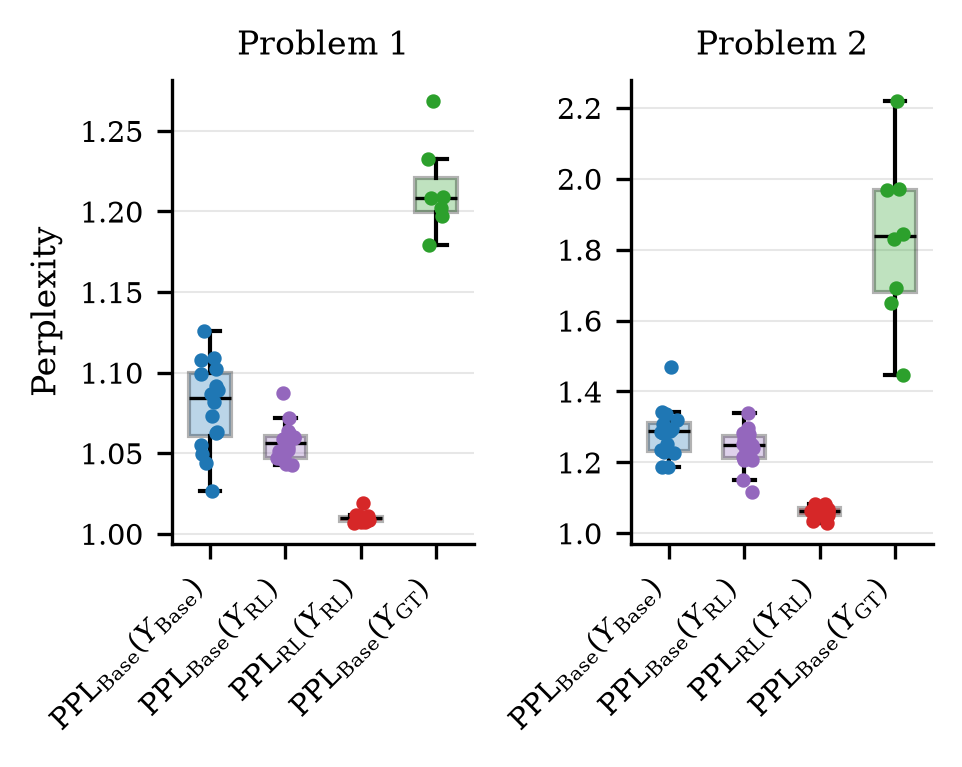
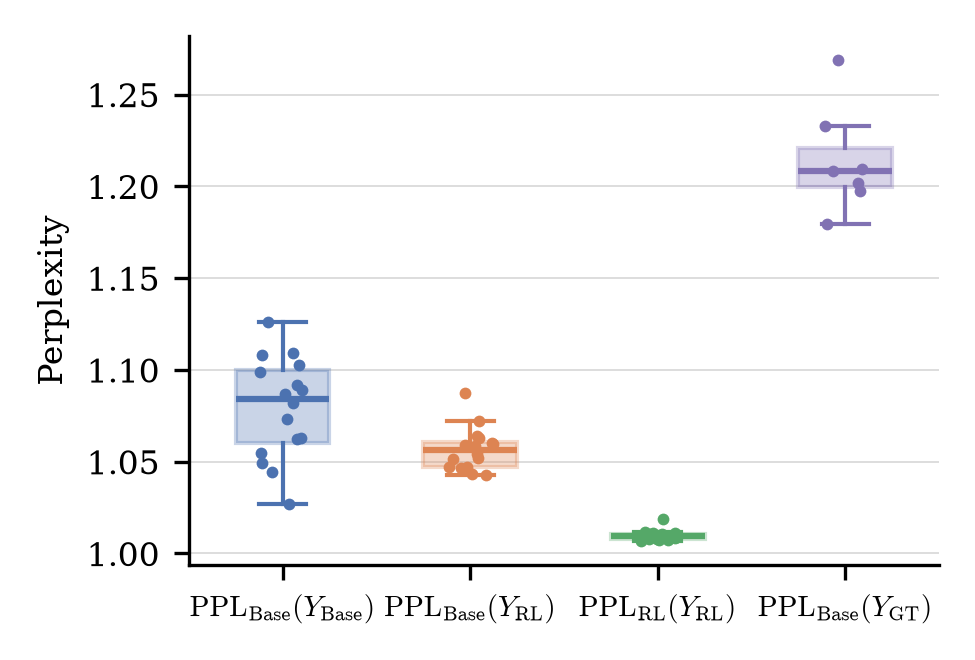
academic-figure: per-purpose plot-type files; README examples at printed size, collapsible
- SKILL.md keeps the shared rules; §4 routes to trend.md, comparison.md, distribution.md,
  scatter.md, heatmap.md by what the figure shows, so new plot types are one file and one row
- RLVR Fig. 6 example: Problem 1 only, one panel filling the column; both versions redrawn
  by clean-context subagents (the with-skill one opened distribution.md on its own)
- README: each example collapsible, labelled with its type, both versions stacked at printed size

diff --git a/skills/academic-figure/SKILL.md b/skills/academic-figure/SKILL.md
@@ -11,7 +11,7 @@ Steps, in order:
 
 1. **Takeaway**: work out what the paper uses this figure to show (from the user's request, the paper text or caption, the figure's role), then write it as one sentence with a number from the data. It sets the value labels (§3) and becomes the caption's takeaway (§7).
 2. **Size**: width, grid and aspect (§1).
-3. **Draw**: base style (§2), lines and text (§3), plot type (§4), color (§5), legend (§6).
+3. **Draw**: base style (§2), what is plotted (§3), the plot type's file (§4), color (§5), legend (§6).
 4. **Save, caption, notebook** (§7, §8), then **check** (§9).
 
 ## 1. Size
@@ -106,55 +106,32 @@ It needs `tol-colors` (Python 3.10+). If it is missing, tell the user and ask be
 - Keep matplotlib's default axis limits and margins; `fit_height` makes room for value labels (§1, Height).
 - Numeric tick labels are horizontal plain numbers (`1, 2, 4, 8`, never rotated, never `2³`). When `fit_height` reports overlapping numeric tick labels, use fewer ticks in that panel (every other one), not smaller text or rotation.
 - Text tick labels (categories, bins, method names) that don't fit side by side turn 45°: `ax.set_xticks(x, labels=names, rotation=45, ha="right", rotation_mode="anchor")`. Keep the panels side by side and the bins on the x-axis rather than switching to horizontal bars or stacked panels to avoid the rotation.
-- Log₂ axes (number of samples, batch size, model size): `ax.set_xscale("log", base=2)`, a tick at every power of 2 up to the first one at or above the largest x (`top`) with `ax.set_xticks(ks, labels=[str(k) for k in ks])`, and no minor ticks (`ax.set_xticks([], minor=True)`). The axis ends at `top` with the usual 5% margin, so every panel ends on a labelled tick: `margin = 2 ** (0.05 * math.log2(top))`, `ax.set_xlim(1 / margin, top * margin)`. Where those labels overlap, step by 4 (`1, 4, 16, 64`).
 - Category axes (bar charts, text tick labels): hide the tick marks on that axis with `ax.tick_params(axis="x", length=0)` (`axis="y"` for horizontal bars), on every panel.
 
-## 3. Lines and text
+## 3. What is plotted
 
 Every plotted quantity is one of two kinds; decide which before drawing:
 
-- **Reported results**: the numbers the paper claims, measured once per setting (accuracy, F1, latency, throughput, error rate, a score per method). Readers compare them exactly.
-- **Diagnostics**: quantities logged along a process to show its behavior (loss, gradient norm, entropy, temperature, queue length per iteration). Readers read their trend and shape.
+- **Reported results**: the numbers the paper claims, measured once per setting (accuracy, F1, latency, throughput, error rate, a score per method). Readers compare them exactly, so when the takeaway compares them, their values are written on the plot (the plot type's file says how).
+- **Diagnostics**: quantities logged along a process to show its behavior (loss, gradient norm, entropy, temperature, queue length per iteration). Readers read their trend and shape, so they carry no value labels.
 
-### Lines
-
-- Curves are plain lines; add markers (the style's hollow markers) only when the user asks. Then each series gets its own marker shape, in series order: `"o"`, `"s"`, `"^"`, `"D"`, `"v"`, `"P"`, the same shape for a series in every panel.
-- Diagnostics, however often they were logged: draw the raw values in the series color at `alpha=0.25` without a label, then `smooth(values)` on top with the label, and add to the caption: "smoothed with a moving average over 5% of the steps; faint lines show raw values".
-- Reported results are drawn raw.
-- Several runs per setting (seeds, folds, trials): draw the mean as the line and a band of ±1 std with `ax.fill_between(x, mean - std, mean + std, color=color, alpha=0.2, linewidth=0)`, and say in the caption what the band is and over how many runs.
-- Reference lines (a baseline's score, a threshold): `ax.axhline(..., linestyle="--", linewidth=0.75, zorder=1)` in #BBBBBB, fully opaque, named by a legend entry. Compared values get their lines from `mark_value` (Value labels below).
+- Reference lines (a baseline's score, a threshold): `ax.axhline(..., linestyle="--", linewidth=0.75, zorder=1)` in #BBBBBB, fully opaque, named by a legend entry.
 - Log axis (`ax.set_yscale("log")`, named in the caption) when values span more than two orders of magnitude and the message is about differences among the small values. When the message is the change in size itself, keep the linear axis.
-
-### Value labels
-
-When the takeaway compares reported results across series, write them on the plot so the reader can read them exactly. Diagnostics carry no value labels; their curves already show the trend. Neither do distributions (histograms, box plots): their shape is the message, and the caption gives the numbers.
-
-- Find the point where the paper makes the comparison: the claim decides it. "Ours reaches a higher score" compares each series' best; "ours ends higher" compares final values (at the last x all series share, when they end at different x); "ours is ahead at the same budget" compares values at that shared x. The value is the plotted metric at that point.
-- If the request and the paper don't settle the comparison point, ask the user. When you can't ask, compare each series' best and say so in the reply.
-- Write each value with three significant figures.
-- Mark each value there with `mark_value(ax, x, y, "0.438", color)`: a 0.75 pt dashed line in `darken(color)` across the whole panel at that value, under the curves; a circle on the point; and the value in bold just above it. One per compared series, in the panels the takeaway is about. The lines let the reader compare heights anywhere in the panel.
-- If a label above the point covers a curve, put it below with `below=True`.
-- Bar charts of reported results: label every bar (§4).
-
-### Other text
-
-- Text that belongs to one series (labels, annotations) uses `darken(series_color)`. Titles, axis labels, ticks and legend text are black.
+- Text that belongs to one series (labels, annotations) uses `darken(series_color)`. Headers, subcaptions, axis labels, ticks and legend text are black.
 
 ## 4. Plot type
 
-Every plot type uses the same parts as lines: the style's full black box, data lines 1 pt, black outlines and edges 0.75 pt (box plots get theirs from the style), dashed lines 0.75 pt, and points as the style's markers (2.25 pt, 0.75 pt edge). Fills take the series color at full opacity, except bands and scatter clouds, and box plots and violins, which take `lighten(color)` so the black median and the points on them stay readable.
+Before drawing, read the file for the figure's purpose, in this skill's directory. A figure that combines purposes (bars with a trend line, box plots over training checkpoints) reads each file it uses.
 
-- **Line**: `ax.plot(x, y, color=color)`; markers only on request (§3). Gridlines in both directions (style).
-- **Bar** (reported results, one bar per category on the x-axis): `bars = ax.bar(x, values, width, color=color, linewidth=0)`, grouped bars sharing 0.8 of each slot (`width = 0.8 / n_series`), every bar labelled with `ax.bar_label(bars, fontweight="bold")`. Horizontal gridlines only: `ax.grid(axis="x", visible=False)`. For several groups (benchmarks, datasets), one panel per group, named by its subcaption. Over several runs, error bars of ±1 std, named in the caption: `ax.bar(..., yerr=std, capsize=2, error_kw=dict(elinewidth=0.75, capthick=0.75, ecolor="black"))`.
-- **Horizontal bar**: only for unordered categories with long names. As bars, with `ax.barh` and vertical gridlines only: `ax.grid(axis="y", visible=False)`.
-- **Stacked bar**: segments in series order from the bottom with white 0.5 pt seams, `ax.bar(x, v, bottom=below, color=color, edgecolor="white", linewidth=0.5)`; horizontal gridlines only.
-- **Histogram**: raw values as touching bars, `ax.hist(values, bins=bins, color=color, linewidth=0)`; several series on one axis as outlines, `histtype="step", linewidth=1`. Counts per bin (e.g. accuracy intervals) as grouped bars with the bins in order on the x-axis, never horizontal bars. No value labels (§3); horizontal gridlines only.
-- **Box plot**: `box = ax.boxplot(values, positions=[x], widths=0.7, showfliers=False)` (the box fills 0.7 of its slot), filled with its series color lightened, `box["boxes"][0].set_facecolor(lighten(color))`; the style draws the black outline, whiskers, caps and median. With under ~30 points per box, show every point on top, jittered within the box, as the style's markers in black on white: `ax.plot(x + rng.uniform(-0.2, 0.2, len(values)), values, "o", color="black", markerfacecolor="white", linestyle="none")`. Horizontal gridlines only.
-- **Violin**: `parts = ax.violinplot(values, positions=[x], widths=0.8, showextrema=False)`; fill the body with its series color lightened, at full opacity, with a black 0.75 pt edge (`body = parts["bodies"][0]`, `body.set_facecolor(lighten(color))`, `body.set_edgecolor("black")`, `body.set_linewidth(0.75)`, `body.set_alpha(1)`), and draw the median as a black 1 pt line across it; points as in box plots. Horizontal gridlines only.
-- **Scatter**: `ax.scatter(x, y, s=5, color=color, edgecolors="none", alpha=0.5)`, dots the size of the style's markers, translucent so dense regions read darker. Gridlines in both directions.
-- **Embedding** (t-SNE, UMAP): as scatter, with ticks hidden and no gridlines (`ax.grid(False)`).
-- **Heatmap, confusion matrix**: `ax.imshow(..., aspect="auto")`, tick marks hidden, no gridlines (`ax.grid(False)`), a colorbar for continuous values; cell text 7 pt in `"white" if np.dot(im.cmap(im.norm(v))[:3], [0.299, 0.587, 0.114]) < 0.5 else "black"`.
-- **Pie chart**: draw a bar chart instead.
+| The figure shows | Read | Covers |
+|---|---|---|
+| values along a continuous x: training curves, scaling, pass@k, a sweep | `trend.md` | lines, smoothing, ±std bands, log₂ axes, `mark_value` |
+| reported results compared across methods, ablations or benchmarks | `comparison.md` | bar, grouped, horizontal, stacked bars |
+| how values are spread: per-sample scores, accuracies, lengths | `distribution.md` | histogram, box plot, violin |
+| two quantities against each other, or an embedding | `scatter.md` | scatter, t-SNE, UMAP |
+| values over two categorical axes | `heatmap.md` | heatmap, confusion matrix, attention map, colormaps |
+
+- Every plot type uses the same parts: the style's full black box, data lines 1 pt, black outlines and edges 0.75 pt, dashed lines 0.75 pt, and points as the style's markers (2.25 pt, 0.75 pt edge). Fills take the series color at full opacity unless the plot type's file says otherwise.
 - Many exact numbers with no trend or comparison to see (e.g. every method on every dataset): suggest a table to the user instead of a figure.
 
 ## 5. Color
@@ -168,8 +145,7 @@ Paul Tol's color-blind-safe `bright` set, from `tol_colors` (`tc`): `cset = tc.c
 | "Ours" (the proposed method among baselines or ablations) | `cset.red`; the others take the categorical order without red. Without such a series, use the categorical order. |
 | Neutral, baselines, reference lines | `cset.grey` (#BBBBBB) |
 | Grouped (sizes, sweeps) | one color per group; within a group blend with white at 40 / 70 / 100 %, light → dark |
-| Sequential (heatmap) | `cmap="tol.iridescent"`; few levels: `tol.YlOrBr_discrete` |
-| Signed (heatmap) | `cmap="tol.sunset"` centered at 0 (symmetric `vmin`/`vmax`); few levels: `tol.sunset_discrete` |
+| Colormaps | `heatmap.md` |
 
 - More than six series: group them (one color per group, shades within) or split them into panels.
 - Series are told apart by color with solid fills. When color alone can't separate them (grayscale printing, close shades), also vary line style.

diff --git a/README.md b/README.md
@@ -4,21 +4,82 @@ A Claude Code skill for academic paper figures made with matplotlib or seaborn: 
 
 ## Examples
 
-Figures from published papers, redrawn by Claude Code subagents with a clean context: without any skill (left) and following this skill (right). Both get only the figure's data, read from the paper's vector paths, and the same task file describing the figure. Click a figure to see it full size.
+Figures from published papers, redrawn by Claude Code subagents with a clean context: once without any skill and once following this skill. Both get only the figure's data, read from the paper's vector paths, and the same task file describing the figure. Each figure is shown at its printed size (1 in = 96 px), so at 100% browser zoom it appears as it would on the page. Open an example to see both versions; click a figure to open it full size.
 
-<table>
-<tr><th width="50%">Without skill</th><th width="50%">With skill</th></tr>
-<tr><td colspan="2"><a href="https://arxiv.org/abs/2503.14476">DAPO</a> (Yu et al., 2025), Figure 2 (left panel, single column)</td></tr>
-<tr><td><a href="examples/dapo-fig2-without-skill.png"><img src="examples/dapo-fig2-without-skill.png" width="100%"></a></td><td><a href="examples/dapo-fig2-with-skill.png"><img src="examples/dapo-fig2-with-skill.png" width="100%"></a></td></tr>
-<tr><td colspan="2"><a href="https://arxiv.org/abs/2503.14476">DAPO</a> (Yu et al., 2025), Figure 6 (1.5 column)</td></tr>
-<tr><td><a href="examples/dapo-fig6-without-skill.png"><img src="examples/dapo-fig6-without-skill.png" width="100%"></a></td><td><a href="examples/dapo-fig6-with-skill.png"><img src="examples/dapo-fig6-with-skill.png" width="100%"></a></td></tr>
-<tr><td colspan="2"><a href="https://arxiv.org/abs/2504.13837">Does RL Really Incentivize Reasoning Capacity in LLMs Beyond the Base Model?</a> (Yue et al., 2025), Figure 2 (double column)</td></tr>
-<tr><td><a href="examples/rlvr-fig2-without-skill.png"><img src="examples/rlvr-fig2-without-skill.png" width="100%"></a></td><td><a href="examples/rlvr-fig2-with-skill.png"><img src="examples/rlvr-fig2-with-skill.png" width="100%"></a></td></tr>
-<tr><td colspan="2"><a href="https://arxiv.org/abs/2504.13837">Does RL Really Incentivize Reasoning Capacity in LLMs Beyond the Base Model?</a> (Yue et al., 2025), Figure 5 (single column)</td></tr>
-<tr><td><a href="examples/rlvr-fig5-without-skill.png"><img src="examples/rlvr-fig5-without-skill.png" width="100%"></a></td><td><a href="examples/rlvr-fig5-with-skill.png"><img src="examples/rlvr-fig5-with-skill.png" width="100%"></a></td></tr>
-<tr><td colspan="2"><a href="https://arxiv.org/abs/2504.13837">Does RL Really Incentivize Reasoning Capacity in LLMs Beyond the Base Model?</a> (Yue et al., 2025), Figure 6 (single column)</td></tr>
-<tr><td><a href="examples/rlvr-fig6-without-skill.png"><img src="examples/rlvr-fig6-without-skill.png" width="100%"></a></td><td><a href="examples/rlvr-fig6-with-skill.png"><img src="examples/rlvr-fig6-with-skill.png" width="100%"></a></td></tr>
-</table>
+<details>
+<summary><b>Trend</b> (line plot): DAPO, Figure 2 (left panel, single column)</summary>
+
+[DAPO: An Open-Source LLM Reinforcement Learning System at Scale](https://arxiv.org/abs/2503.14476) (Yu et al., 2025)
+
+**Without skill**
+
+<a href="examples/dapo-fig2-without-skill.png"><img src="examples/dapo-fig2-without-skill.png" width="310"></a>
+
+**With skill**
+
+<a href="examples/dapo-fig2-with-skill.png"><img src="examples/dapo-fig2-with-skill.png" width="312"></a>
+
+</details>
+
+<details>
+<summary><b>Trend</b> (line plot): DAPO, Figure 6 (1.5 column)</summary>
+
+[DAPO: An Open-Source LLM Reinforcement Learning System at Scale](https://arxiv.org/abs/2503.14476) (Yu et al., 2025)
+
+**Without skill**
+
+<a href="examples/dapo-fig6-without-skill.png"><img src="examples/dapo-fig6-without-skill.png" width="437"></a>
+
+**With skill**
+
+<a href="examples/dapo-fig6-with-skill.png"><img src="examples/dapo-fig6-with-skill.png" width="486"></a>
+
+</details>
+
+<details>
+<summary><b>Trend</b> (4 × 4 grid of line plots, log₂ x axis): Does RL Really Incentivize Reasoning Capacity?, Figure 2 (double column)</summary>
+
+[Does Reinforcement Learning Really Incentivize Reasoning Capacity in LLMs Beyond the Base Model?](https://arxiv.org/abs/2504.13837) (Yue et al., 2025)
+
+**Without skill**
+
+<a href="examples/rlvr-fig2-without-skill.png"><img src="examples/rlvr-fig2-without-skill.png" width="647"></a>
+
+**With skill**
+
+<a href="examples/rlvr-fig2-with-skill.png"><img src="examples/rlvr-fig2-with-skill.png" width="648"></a>
+
+</details>
+
+<details>
+<summary><b>Distribution</b> (histogram of counts per bin): Does RL Really Incentivize Reasoning Capacity?, Figure 5 (single column)</summary>
+
+[Does Reinforcement Learning Really Incentivize Reasoning Capacity in LLMs Beyond the Base Model?](https://arxiv.org/abs/2504.13837) (Yue et al., 2025)
+
+**Without skill**
+
+<a href="examples/rlvr-fig5-without-skill.png"><img src="examples/rlvr-fig5-without-skill.png" width="308"></a>
+
+**With skill**
+
+<a href="examples/rlvr-fig5-with-skill.png"><img src="examples/rlvr-fig5-with-skill.png" width="312"></a>
+
+</details>
+
+<details>
+<summary><b>Distribution</b> (box plot with points): Does RL Really Incentivize Reasoning Capacity?, Figure 6, Problem 1 only (single column)</summary>
+
+[Does Reinforcement Learning Really Incentivize Reasoning Capacity in LLMs Beyond the Base Model?](https://arxiv.org/abs/2504.13837) (Yue et al., 2025)
+
+**Without skill**
+
+<a href="examples/rlvr-fig6-without-skill.png"><img src="examples/rlvr-fig6-without-skill.png" width="312"></a>
+
+**With skill**
+
+<a href="examples/rlvr-fig6-with-skill.png"><img src="examples/rlvr-fig6-with-skill.png" width="312"></a>
+
+</details>
 
 ## Install
 

diff --git a/skills/academic-figure/trend.md b/skills/academic-figure/trend.md
@@ -1,0 +1,22 @@
+# Trend: values along a continuous x
+
+Training curves, scaling with model or data size, pass@k over the number of samples, a metric over a swept hyperparameter. Read with `SKILL.md`, whose rules all still apply.
+
+## Lines
+
+- `ax.plot(x, y, color=color)`; gridlines in both directions (style).
+- Curves are plain lines; add markers (the style's hollow markers) only when the user asks. Then each series gets its own marker shape, in series order: `"o"`, `"s"`, `"^"`, `"D"`, `"v"`, `"P"`, the same shape for a series in every panel.
+- Diagnostics, however often they were logged: draw the raw values in the series color at `alpha=0.25` without a label, then `smooth(values)` on top with the label, and add to the caption: "smoothed with a moving average over 5% of the steps; faint lines show raw values".
+- Reported results are drawn raw.
+- Several runs per setting (seeds, folds, trials): draw the mean as the line and a band of ±1 std with `ax.fill_between(x, mean - std, mean + std, color=color, alpha=0.2, linewidth=0)`, and say in the caption what the band is and over how many runs.
+- Log₂ axes (number of samples, batch size, model size): `ax.set_xscale("log", base=2)`, a tick at every power of 2 up to the first one at or above the largest x (`top`) with `ax.set_xticks(ks, labels=[str(k) for k in ks])`, and no minor ticks (`ax.set_xticks([], minor=True)`). The axis ends at `top` with the usual 5% margin, so every panel ends on a labelled tick: `margin = 2 ** (0.05 * math.log2(top))`, `ax.set_xlim(1 / margin, top * margin)`. Where those labels overlap, step by 4 (`1, 4, 16, 64`).
+
+## Value labels
+
+When the takeaway compares reported results across series, mark the compared values on the curves:
+
+- Find the point where the paper makes the comparison: the claim decides it. "Ours reaches a higher score" compares each series' best; "ours ends higher" compares final values (at the last x all series share, when they end at different x); "ours is ahead at the same budget" compares values at that shared x. The value is the plotted metric at that point.
+- If the request and the paper don't settle the comparison point, ask the user. When you can't ask, compare each series' best and say so in the reply.
+- Write each value with three significant figures.
+- Mark each value there with `mark_value(ax, x, y, "0.438", color)`: a 0.75 pt dashed line in `darken(color)` across the whole panel at that value, under the curves; a circle on the point; and the value in bold just above it. One per compared series, in the panels the takeaway is about. The lines let the reader compare heights anywhere in the panel.
+- If a label above the point covers a curve, put it below with `below=True`.

diff --git a/skills/academic-figure/distribution.md b/skills/academic-figure/distribution.md
@@ -1,0 +1,7 @@
+# Distribution: how values are spread
+
+Per-sample scores, per-problem accuracies, perplexities, lengths: many values per series, where the shape is the message. No value labels; the caption gives the numbers. Read with `SKILL.md`, whose rules all still apply.
+
+- **Histogram**: raw values as touching bars, `ax.hist(values, bins=bins, color=color, linewidth=0)`; several series on one axis as outlines, `histtype="step", linewidth=1`. Counts per bin (e.g. accuracy intervals) as grouped bars with the bins in order on the x-axis, never horizontal bars. Horizontal gridlines only.
+- **Box plot**: `box = ax.boxplot(values, positions=[x], widths=0.7, showfliers=False)` (the box fills 0.7 of its slot), filled with its series color lightened, `box["boxes"][0].set_facecolor(lighten(color))`, so the black median and the points on it stay readable; the style draws the black outline, whiskers, caps and median. With under ~30 points per box, show every point on top, jittered within the box, as the style's markers in black on white: `ax.plot(x + rng.uniform(-0.2, 0.2, len(values)), values, "o", color="black", markerfacecolor="white", linestyle="none")`. Horizontal gridlines only.
+- **Violin**: `parts = ax.violinplot(values, positions=[x], widths=0.8, showextrema=False)`; fill the body with its series color lightened, at full opacity, with a black 0.75 pt edge (`body = parts["bodies"][0]`, `body.set_facecolor(lighten(color))`, `body.set_edgecolor("black")`, `body.set_linewidth(0.75)`, `body.set_alpha(1)`), and draw the median as a black 1 pt line across it; points as in box plots. Horizontal gridlines only.

diff --git a/examples/rlvr-task.md b/examples/rlvr-task.md
@@ -10,7 +10,7 @@ Figures:
 
 2. Pass@k curves of base models and their RLVR-trained counterparts across mathematical benchmarks. When k is small, RL-trained models outperform their base versions. However, as k increases to the tens or hundreds, base models consistently catch up and surpass RL-trained models. Full text width of the ICML two-column template (6.75 in).
 5. Qwen2.5-7B accuracy histogram on Minerva. RLVR increases the frequency of high accuracies near 1.0 and reduces the frequency of low accuracies (e.g., 0.1, 0.2); however, it also increases the frequency at accuracy 0, i.e. more unsolvable problems. One column of the ICML template.
-6. Perplexity distribution of responses (the conditioning problem x is omitted from the labels), one panel per problem. PPL_Base(Y_RL) closely matches the lower portion of the PPL_Base(Y_Base) distribution: responses of the RL model are ones the base model already tends to generate. One column of the ICML template.
+6. Perplexity distribution of responses to Problem 1 only (the conditioning problem x is omitted from the labels), one panel filling the column. PPL_Base(Y_RL) closely matches the lower portion of the PPL_Base(Y_Base) distribution: responses of the RL model are ones the base model already tends to generate. One column of the ICML template.
 
 Deliverable: `fig2.png`, `fig5.png` and `fig6.png`, plus the code that produced them.
 Python: use `uv run -p 3.12 --with <packages> ...` (installing packages this way is allowed).

diff --git a/skills/academic-figure/comparison.md b/skills/academic-figure/comparison.md
@@ -1,0 +1,8 @@
+# Comparison: reported results across categories
+
+Methods, ablations or settings compared on one or more benchmarks, one value each. Read with `SKILL.md`, whose rules all still apply.
+
+- **Bar** (one bar per category on the x-axis): `bars = ax.bar(x, values, width, color=color, linewidth=0)`, grouped bars sharing 0.8 of each slot (`width = 0.8 / n_series`), every bar labelled with its value, `ax.bar_label(bars, fontweight="bold")`. Horizontal gridlines only: `ax.grid(axis="x", visible=False)`. For several groups (benchmarks, datasets), one panel per group, named by its subcaption. Over several runs, error bars of ±1 std, named in the caption: `ax.bar(..., yerr=std, capsize=2, error_kw=dict(elinewidth=0.75, capthick=0.75, ecolor="black"))`.
+- **Horizontal bar**: only for unordered categories with long names. As bars, with `ax.barh` and vertical gridlines only: `ax.grid(axis="y", visible=False)`.
+- **Stacked bar** (parts of a whole per category): segments in series order from the bottom with white 0.5 pt seams, `ax.bar(x, v, bottom=below, color=color, edgecolor="white", linewidth=0.5)`; horizontal gridlines only.
+- **Pie chart**: draw a bar chart instead.

diff --git a/skills/academic-figure/heatmap.md b/skills/academic-figure/heatmap.md
@@ -1,0 +1,11 @@
+# Heatmap: values over two categorical axes
+
+Heatmaps, confusion matrices, attention maps, grids of results over two swept settings. Read with `SKILL.md`, whose rules all still apply.
+
+- `ax.imshow(..., aspect="auto")`, panel aspect 1 : 1, tick marks hidden, no gridlines (`ax.grid(False)`), a colorbar for continuous values; cell text 7 pt in `"white" if np.dot(im.cmap(im.norm(v))[:3], [0.299, 0.587, 0.114]) < 0.5 else "black"`.
+- Category axes carry no axis labels when the tick labels name them.
+
+| Values | Colormap |
+|---|---|
+| Sequential | `cmap="tol.iridescent"`; few levels: `tol.YlOrBr_discrete` |
+| Signed | `cmap="tol.sunset"` centered at 0 (symmetric `vmin`/`vmax`); few levels: `tol.sunset_discrete` |

diff --git a/skills/academic-figure/scatter.md b/skills/academic-figure/scatter.md
@@ -1,0 +1,6 @@
+# Scatter: relationship between two quantities, embeddings
+
+One point per sample or model, two quantities against each other; or a 2-D embedding (t-SNE, UMAP). Read with `SKILL.md`, whose rules all still apply.
+
+- **Scatter**: `ax.scatter(x, y, s=5, color=color, edgecolors="none", alpha=0.5)`, dots the size of the style's markers, translucent so dense regions read darker. Gridlines in both directions.
+- **Embedding** (t-SNE, UMAP): as scatter, with ticks hidden and no gridlines (`ax.grid(False)`), and no axis labels.
